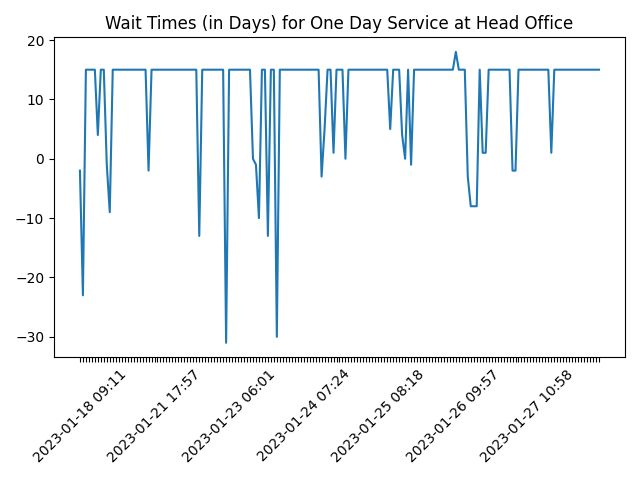
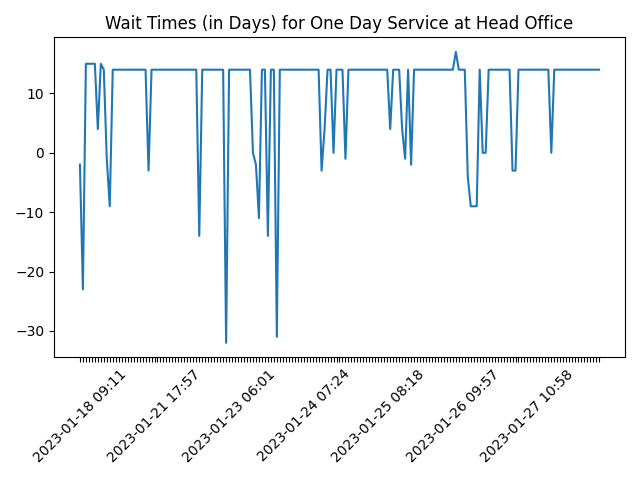
Updated data Fri Feb 24 06:29:03 UTC 2023

diff --git a/README.md b/README.md
@@ -1,5 +1,5 @@
 # Passport Application Reservation System - Availability Report
 
-*As of February 24, 2023 (06:13 AM)*
+*As of February 24, 2023 (11:59 AM)*
 
 Data Source: [Passport Application Reservation System](https://eservices.immigration.gov.lk:8443/appointment/pages/reservationApplication.xhtml)

diff --git a/summary.md b/summary.md
@@ -2,7 +2,7 @@
 
 Of the data from the Passport Application Reservation System of the Sri Lanka Department of Immigration and Emigration.
 
-*As of 2023-02-24 06:13:56*
+*As of 2023-02-24 11:59:01*
 
 ![Wait Time Chart](summary.wait_time_chart.png)
 
